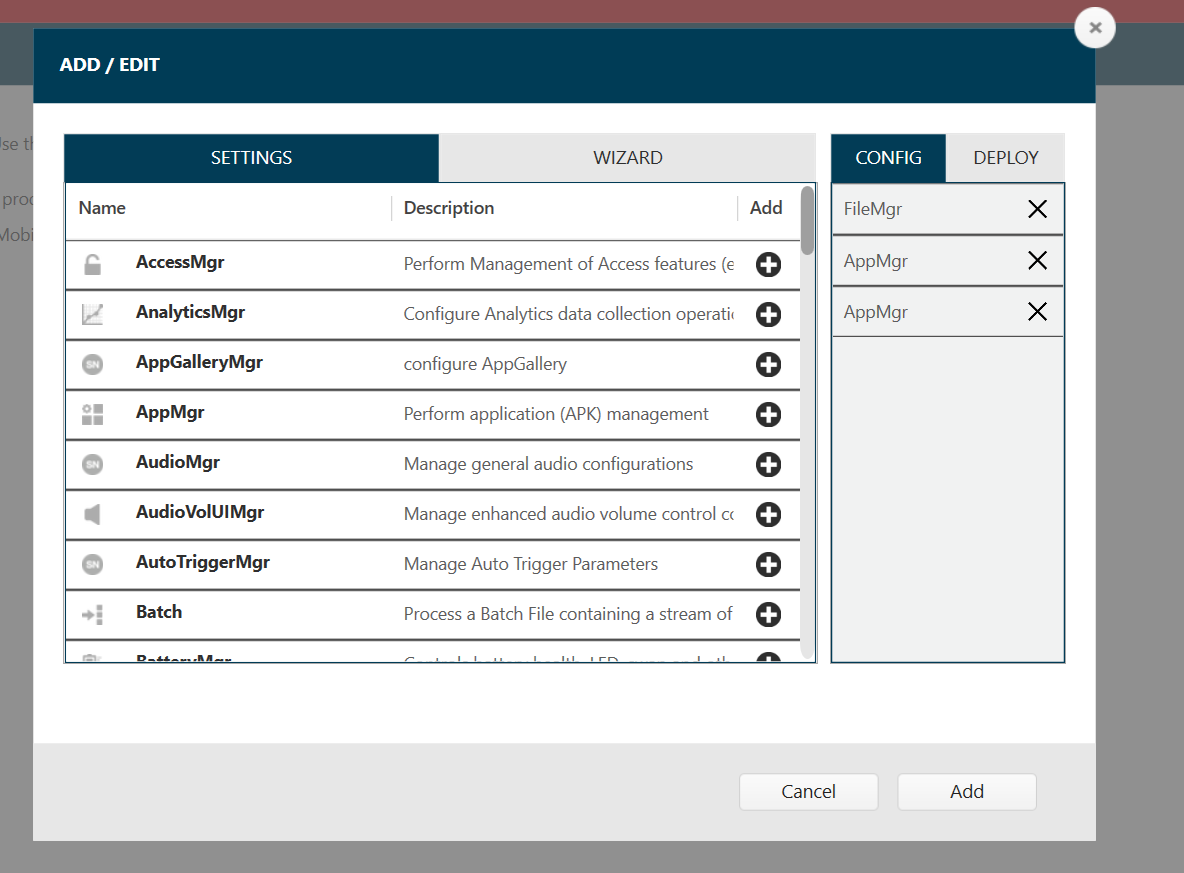
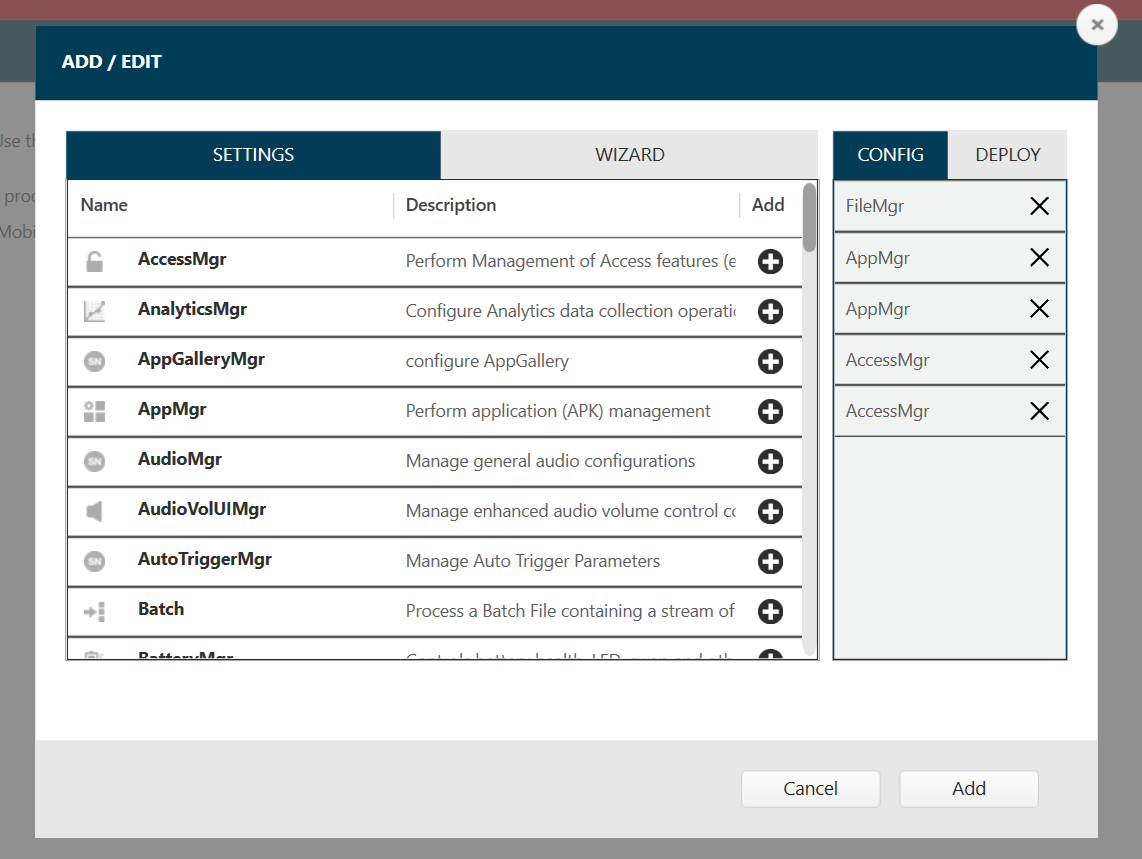
[SOLA-7939/SOLA-7946] DTRK/PPC 3.0 - Correct screens and file path

Changed region(s): [[0.0, 0.0, 1.0, 0.9988], [0.1532, 0.1513, 0.2758, 0.2119], [0.4904, 0.1513, 0.5823, 0.2119]]

diff --git a/src/devicetracker-onprem/3-0/guide/setup/index.md b/src/devicetracker-onprem/3-0/guide/setup/index.md
@@ -385,7 +385,7 @@ For remote installation, create a StageNow installation profile to install and s
 6. If using StageNow to copy the install file to the device, scroll down and click the plus (+) sign next to **FileMgr.** This adds FileMgr to the Config tab on the right side.
 7. Scroll to **AppMgr** and click the plus (+) sign next to it. This adds AppMgr to the Config tab on the right side.
 8. Repeat step 7 again. AppMgr is listed twice in the Config tab.
-   <img alt="" style="height:450px" src="config-list.PNG" /><i>Config list</i>
+   <img alt="" style="height:450px" src="config-list.png" /><i>Config list</i>
 
 9. Click **Add.**
 10. If using StageNow to copy the install file to the device, proceed with this step.  Otherwise, skip to step 11.<br>
@@ -439,7 +439,7 @@ Steps for manual client configuration after installation:
      <br>
 6. Tap the device back button to save the changes and return to the main screen. Device Tracker On-Prem client registers with the server and loads "Devices to be found". _If using an SSL certificate,_ manual client configuration is complete.
 7. **If using a self-signed certificate,** proceed as follows:<br>
-   &nbsp;&nbsp;&nbsp;A. Copy the self-signed certificate .CRT file to folder `/Android/data/com.zebra.devicetracker/files/cert` on the device to establish communication with the server. The .CRT certificate file was generated from step 6 above in the **Self-Signed Certificate** subsection under **Server Certificate**. <br>
+   &nbsp;&nbsp;&nbsp;A. Copy the self-signed certificate .CRT file to folder `/sdcard/Android/data/com.zebra.devicetracker/files/cert` on the device to establish communication with the server. The .CRT certificate file was generated from step 6 above in the **Self-Signed Certificate** subsection under **Server Certificate**. <br>
    &nbsp;&nbsp;&nbsp;B. The message "Connected via untrusted certificate" is displayed in the app:
    <img style="height:400px" src="untrusted_cert.jpg"/>
    _Untrusted certificate message in client app_<br>

diff --git a/src/ppc/3-0/guide/setup/index.md b/src/ppc/3-0/guide/setup/index.md
@@ -317,10 +317,9 @@ For remote installation, create a StageNow installation profile to install and s
 6. If using StageNow to copy the install file to the device, scroll down and click the plus (+) sign next to **FileMgr.** This adds FileMgr to the Config tab on the right side.
 7. Scroll to **AppMgr** and click the plus (+) sign next to it. This adds AppMgr to the Config tab on the right side.
 8. Repeat step 7 again. AppMgr is listed twice in the Config tab.
-   <img alt="" style="height:450px" src="config-list.PNG" /><i>Config list</i>
-
 9. If automatically bypassing the screen overlay permission, scroll to **AccessMgr** and click the plus (+) sign next to it. This adds **AccessMgr** to the Config tab on the right side.
 10. If automatically bypassing the usage access permission, scroll to **AccessMgr** and click the plus (+) sign next to it. This adds **AccessMgr** to the Config tab on the right side.
+   <img alt="" style="height:450px" src="config-list.png" /><i>Config list</i>
 11. Click **Add.**
 12. If using StageNow to copy the install file to the device, proceed with this step.  Otherwise, skip to step 13.<br>
 _StageNow Config 1_ - Copy the install file to the device with FileMgr. In the **FileMgr** screen under the **Create New Setting** tab, select and enter the desired options to install the APK, for example:<br>
